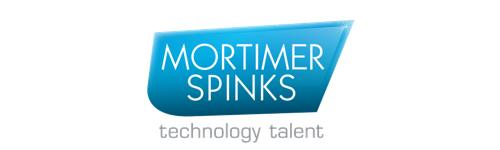
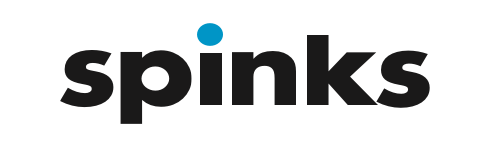
updated the partner list

diff --git a/index.html b/index.html
@@ -280,7 +280,7 @@
                         <div>
                             <img class="img-responsive" src="assets/img/spinks.png" alt="Northcoders img">
                         </div>
-                        <p class="description"><a class="text-brand" href="https://www.mortimerspinks.com/" target="_blank">Mortimer Spinks</a> is our sponsoring partner. They are a total tech talent solutions provider, who connect talent through authentic talent solutions and community engagement.</p>
+                        <p class="description"><a class="text-brand" href="https://www.wearespinks.com/" target="_blank">Spinks</a> is our sponsoring partner. They are a total tech talent solutions provider, who connect talent through authentic talent solutions and community engagement.</p>
                     </div>
                 </div>
                 <div class="col-md-6 spacing">
@@ -305,15 +305,6 @@
                             <img class="img-responsive" src="assets/img/partner1.png" alt="Northcoders img">
                         </div>
                         <p class="description"><a class="text-brand" href="https://northcoders.com/" target="_blank">Northcoders</a> is our sponsoring partner. Northcoders is the UK's leading coding school for graduate outcomes with campuses in Manchester and Leeds.</p>
-                    </div>
-                </div>
-                <div class="col-md-6 spacing">
-                    <div class="info-icon">
-                        <div>
-                            <img class="img-responsive" src="assets/img/partner2.png" alt="Jaguar Land Rover img">
-                        </div>
-                        <!--<h3 class="text-brand">Our Host</h3>-->
-                        <p class="description">Jaguar Land Rover's brand new hi-tech Digital Delivery Centre (software, IT and engineering) in central Manchester within the Neo building, is our hosting partner.</p>
                     </div>
                 </div>
                 <div class="col-md-6 spacing">
